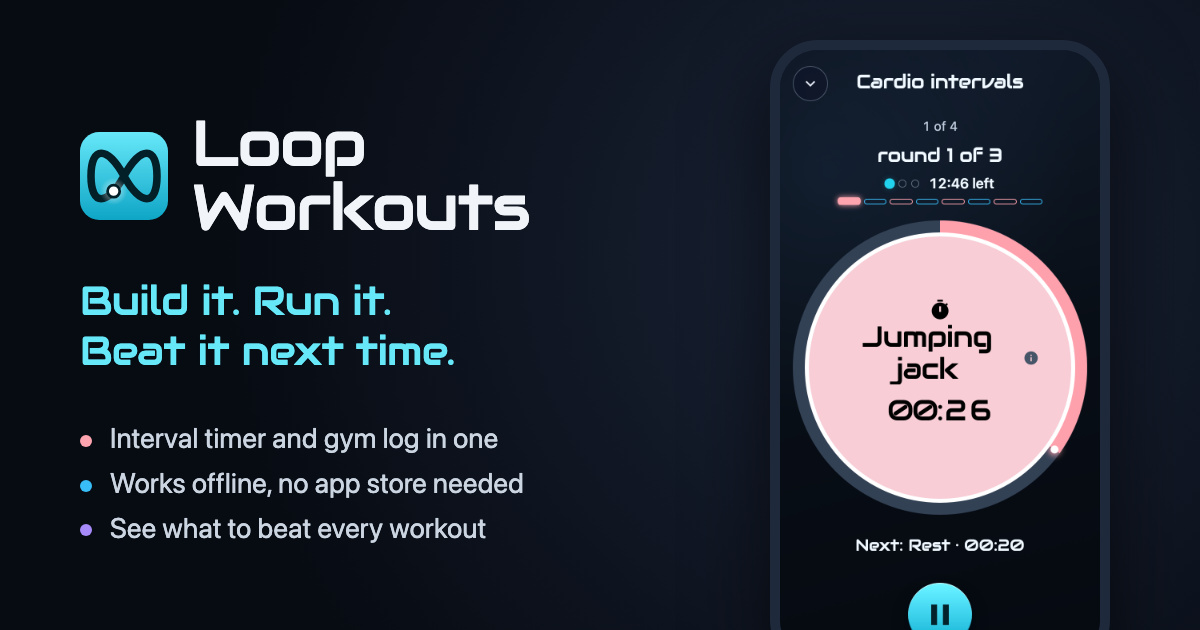
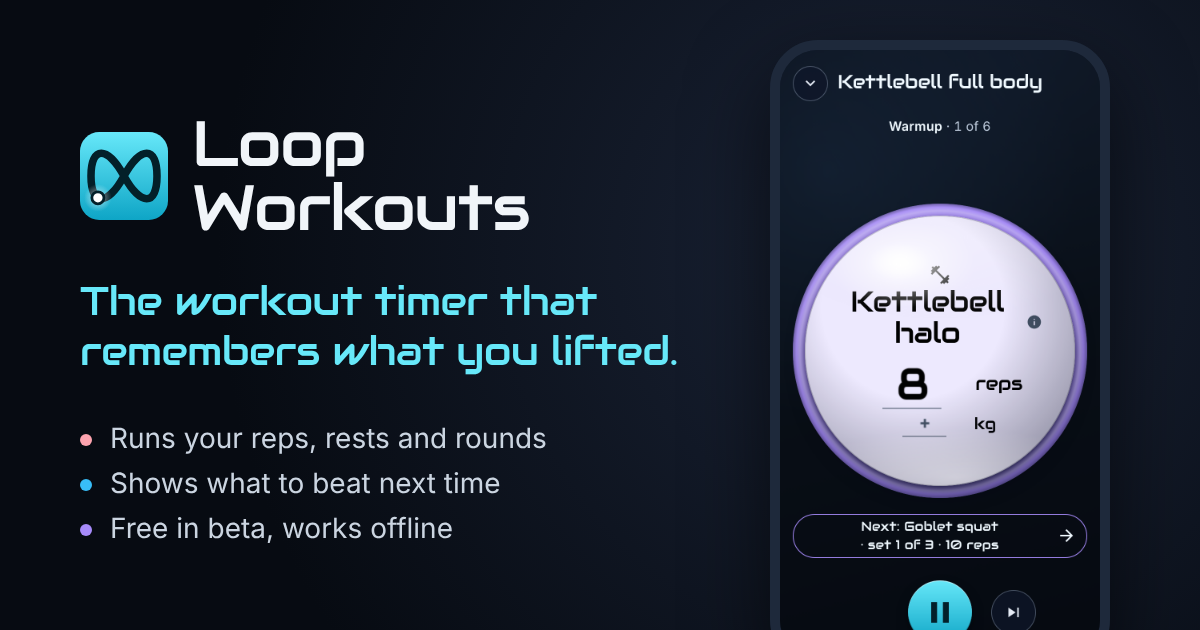
Founding members: first year free, and the app's words for the beta
Anyone who signs in during the free beta becomes a founding member,
with their first year free in the store app. Welcome and the You tab
say so, and the welcome pitch, page description, Open Graph tags,
manifest and share.png now use the new positioning: "the workout timer
that remembers what you lifted". share.png shows Kettlebell full body,
and its script finds the details page's start button by its current
name. The marketing plan, TODO and feature docs follow, with what's
left to decide before charging (when the beta ends, how founding
members claim their year, and the terms of use).

Claude-Session: https://claude.ai/code/session_01E5YpXDFx369SisvGUtWbE6

diff --git a/src/index.html b/src/index.html
@@ -9,23 +9,26 @@
              tools/build-share-image.mjs). The copy's other versions are in docs/marketing.md. -->
         <meta
             name="description"
-            content="A free interval timer and gym log: build a workout, run it with a clear timer and beeps, and see what to beat next time. Works offline, no app store needed."
+            content="A workout timer for kettlebells and circuits that remembers what you lifted: reps, rests and rounds, run for you, and what to beat next time. Free in beta."
         />
         <link rel="canonical" href="https://loopworkouts.com/" />
         <meta property="og:type" content="website" />
         <meta property="og:site_name" content="Loop Workouts" />
         <meta property="og:url" content="https://loopworkouts.com/" />
-        <meta property="og:title" content="Loop Workouts: build it, run it, beat it next time" />
+        <meta
+            property="og:title"
+            content="Loop Workouts: the workout timer that remembers what you lifted"
+        />
         <meta
             property="og:description"
-            content="A free interval timer and gym log in one. Build a workout, run it with a clear timer and beeps, and see what to beat next time."
+            content="Runs your kettlebell or circuit workout, reps and rests included, and shows you what to beat next time. Free in beta, and founding members get their first year free in the app."
         />
         <meta property="og:image" content="https://loopworkouts.com/share.png" />
         <meta property="og:image:width" content="1200" />
         <meta property="og:image:height" content="630" />
         <meta
             property="og:image:alt"
-            content="Loop Workouts on a phone, mid-workout: a ring counting down 26 seconds of jumping jacks"
+            content="Loop Workouts on a phone, mid-workout: a kettlebell halo, 8 reps, waiting for Done"
         />
         <meta name="twitter:card" content="summary_large_image" />
         <!-- The ∞ and its light on the Start button's cyan. Firefox moves the light round the

diff --git a/src/app/welcome/welcome.component.ts b/src/app/welcome/welcome.component.ts
@@ -21,12 +21,12 @@ import { WELCOMED_KEY } from './welcome-first';
                 <app-loop-logo class="welcome__logo" />
                 <h2 class="welcome__title">Welcome to Loop Workouts</h2>
                 <p class="welcome__pitch">
-                    Build your workouts, run them with a timer that counts your sets and rests, and
-                    see how you're getting on.
+                    The workout timer that remembers what you lifted. It runs your whole workout,
+                    reps and rests included, and next time shows you what to beat.
                 </p>
 
                 <app-sign-in
-                    intro="Sign in to keep your workouts and history on every device you use."
+                    intro="Loop Workouts is free while in beta. Sign in now to be a founding member, with your first year free when the app comes to the App Store and Google Play. Your workouts and history are then on every device you use."
                     (signedIn)="goHome('signed-in')"
                 />
 

diff --git a/src/app/account/account.component.html b/src/app/account/account.component.html
@@ -98,7 +98,7 @@
                 }
                 @case ('signed-out') {
                     <app-sign-in
-                        intro="Sign in, and your workouts and history will be the same on every device you sign in on. An account is optional: without one, everything stays on this device."
+                        intro="Sign in, and your workouts and history will be the same on every device you sign in on. Signing in while in beta also makes you a founding member, with your first year free when the app comes to the App Store and Google Play. An account is optional: without one, everything stays on this device."
                         (signedIn)="signedIn()"
                     />
                 }

diff --git a/docs/marketing.md b/docs/marketing.md
@@ -12,6 +12,7 @@ Decided by Dan on 2026-11-09.
 - **The business: a paid app in the App Store and Google Play,** at about £2.99 a month or £24.99 a year. It gets there in two stages:
     1. **A free web beta, now.** Free users while the iPhone app is built, to get feedback, iron out the kinks, and collect testimonials.
     2. **The store launch, paid,** with the beta's testimonials and fixes.
+- **Founding members get their first year free.** Anyone who signs in during the beta becomes a founding member, and gets their first year free in the store app. Signing in is what makes them one: a guest's data stays on their device, so there's no way to know who they are. The welcome screen and the You tab say so, as do the shared link's description and the beta invitation. Supabase's list of accounts, with when each was made, is the record of who's a founding member.
 
 ### Pricing next to the rivals
 
@@ -19,10 +20,11 @@ Decided by Dan on 2026-11-09.
 
 ### To decide before charging
 
-- **What beta users get for helping.** Recommended: they become **founding members**, with something concrete, such as a free first year in the store app or a lower price for good. Say what it is in the beta invitation. "Free while in beta, and you'll get X" is honest, and it explains why it's free.
 - **Whether the web version stays free.** If the store app is paid and the web app isn't, most people will use the web app. The options are to make the web app paid too, give it a free tier with limits, or close it once the store apps are out.
 - **A free tier or a trial in the store.** A trial is simpler. A free tier (say, the timer without the memory) brings more people in, but it gives away what makes the app worth having.
-- **The terms of use.** They say the app is free, so they'll need to change before charging, along with the privacy notice if payments bring in a new provider.
+- **When the beta ends,** so founding members know the cut-off. Until it's set, say "during the beta".
+- **How a founding member claims their year** in the store app, by signing in with the same account. Apple and Google each have ways to give a year free (offer codes, or a promotional offer for existing accounts), and Apple's rules on unlocking paid features for accounts made outside the store need checking first.
+- **The terms of use.** They say the app is free, so they'll need to change before charging, along with the privacy notice if payments bring in a new provider. They should also state the founding members' offer, as it's a promise.
 
 ## The free beta
 
@@ -42,7 +44,7 @@ Home kettlebell and circuit trainers, in this order:
 
 ### Telling beta users
 
-Say plainly that it's a beta, that it's free for now, that a paid store app is coming, and what they'll get for helping. Ask for feedback at the moments it's freshest: after their first workout and after their first week.
+Say plainly that it's a beta, that it's free for now, that a paid store app is coming, and that signing in during the beta makes them a founding member, with their first year free in the app. Ask for feedback at the moments it's freshest: after their first workout and after their first week.
 
 ### Collecting testimonials
 
@@ -91,6 +93,7 @@ The marketing skills (`/draft-content`, `/brand-review`, `/email-sequence`, `/ca
 Check a claim here before using it anywhere new.
 
 - **Free, for now:** the terms of use say so. Don't promise it'll always be free: a paid store app is planned. "Free while in beta" is safe.
+- **Founding members get their first year free** in the store app: anyone who signs in during the beta. Don't promise a cut-off date, a price or a launch date until they're set.
 - **Runs the whole workout:** timed steps, rep steps that wait for you to tap Done, rests, sets, supersets, rounds or "until I stop", and a time limit for as many rounds as possible, with your score at the end.
 - **Remembers and suggests:** every set is logged; a rep step shows what you did last time; the summary celebrates personal bests and suggests what to step up next time (more weight, or another rep); each exercise has a chart and its bests; and it suggests a next workout for the muscles you've worked least.
 - **For kettlebells:** 21 built-in exercises use a kettlebell, and there are 3 ready-made kettlebell workouts (full body, a swing ladder and an AMRAP) and a 3-day kettlebell plan.
@@ -104,17 +107,17 @@ Check a claim here before using it anywhere new.
 
 ## Taglines
 
-- **The workout timer that remembers what you lifted.** (Recommended: it says "timer" first, and the memory is the reason to choose it.)
-- **Build it. Run it. Beat it next time.** (In use now in `share.png` and `og:title`. It still fits, as a second line.)
+- **The workout timer that remembers what you lifted.** (In use: Welcome, `share.png`, `og:title` and the manifest. It says "timer" first, and the memory is the reason to choose it.)
+- **Build it. Run it. Beat it next time.** (The old one. It still fits, as a second line.)
 - Your workout, on a loop.
 
 ## Short versions
 
-These are drafts for the new positioning. The app's own copy (`src/index.html`, `manifest.webmanifest`, `share.png`) still uses the old "interval timer and gym log" words until it's updated.
+The first two are in the app's own copy: `src/index.html` and `manifest.webmanifest`.
 
 **Search results and shared links** (about 155 characters):
 
-> A workout timer for kettlebells and circuits that remembers what you lifted. Reps, rests and rounds, run for you, and what to beat next time. Free in beta.
+> A workout timer for kettlebells and circuits that remembers what you lifted: reps, rests and rounds, run for you, and what to beat next time. Free in beta.
 
 **One line** (80 characters at most):
 
@@ -146,7 +149,7 @@ For a landing page, and later a store listing (drop "in the browser" and "beta" 
 >
 > **Built for everyone.** Works fully by keyboard and screen reader, respects reduced motion, and has light and dark themes.
 >
-> Free while in beta. Open loopworkouts.com and press start.
+> Free while in beta, and founding members get their first year free in the app. Open loopworkouts.com and press start.
 
 ## Posts
 
@@ -154,7 +157,7 @@ For a landing page, and later a store listing (drop "in the browser" and "beta" 
 
 > **I built a workout timer for kettlebell circuits that remembers what you lifted. Looking for beta testers.**
 >
-> Every timer I tried was pure countdowns, useless for "15 swings, 8 presses each side, rest 60s", and I kept forgetting which bell I'd used last week. So I made one that does both: timed steps, rep steps that wait for you to tap Done, and a log that shows what you did last time and suggests when to go up a bell. There are 21 kettlebell exercises with 3D demos, a swing ladder, an AMRAP and a 3-day plan built in. It runs in the browser and works offline: loopworkouts.com. It's free while in beta, as I'm building the iPhone app. I'd love to know what's missing for how you train.
+> Every timer I tried was pure countdowns, useless for "15 swings, 8 presses each side, rest 60s", and I kept forgetting which bell I'd used last week. So I made one that does both: timed steps, rep steps that wait for you to tap Done, and a log that shows what you did last time and suggests when to go up a bell. There are 21 kettlebell exercises with 3D demos, a swing ladder, an AMRAP and a 3-day plan built in. It runs in the browser and works offline: loopworkouts.com. It's free while in beta, as I'm building the iPhone app, and anyone who signs in now gets their first year free in it too. I'd love to know what's missing for how you train.
 
 Change the middle for each community: no equipment and the ready-made bodyweight workouts for r/bodyweightfitness, and home circuits and the weekly plan for r/homegym.
 
@@ -164,7 +167,7 @@ Change the middle for each community: no equipment and the ready-made bodyweight
 
 ## Pictures and video
 
-- **Shared links:** `public/share.png`, made by `tools/build-share-image.mjs` (see Web, shared links in [home and navigation](features/home-and-navigation.md)). Update it with the new tagline.
+- **Shared links:** `public/share.png`, made by `tools/build-share-image.mjs` (see Web, shared links in [home and navigation](features/home-and-navigation.md)): the new tagline beside Kettlebell full body running.
 - **Short videos** (Reels, TikTok, Shorts), 15 seconds with no voiceover needed: a kettlebell workout running (the ring filling, Done on a set of swings), "last time" on a step and the personal best at the end, and a 3D demo turning round.
 - **The store listing** will need screenshots and a preview video. Plan them from the same shots.
 
@@ -172,12 +175,12 @@ Change the middle for each community: no equipment and the ready-made bodyweight
 
 In order. Each step's to-do is in TODO.md under Launch.
 
-1. **Shared links show a picture and a description.** Done; the words change with step 4.
+1. **Shared links show a picture and a description.** Done.
 2. **Know whether it's working:** Vercel Web Analytics (tag links with `?ref=`), Speed Insights, and an email link under You → About. Done.
 3. **Clear the iPhone checks and the legal review.** The iPhone checks are done (2026-11-08); the legal review is left.
-4. **Ready the beta:** decide what founding members get, then update the app's own words (`index.html`, the manifest, `share.png`, Welcome) for the new positioning and say "beta" in it.
+4. **Ready the beta:** the app's own words (`index.html`, the manifest, `share.png`, Welcome and the You tab) say what it is now, that it's a beta, and that founding members get their first year free. Done (2026-11-09).
 5. **Soft launch:** friends and the gym. Watch a few people use it without helping.
 6. **Communities,** with the beta invitation above, and short videos along the way.
 7. **Collect testimonials** from the people who keep coming back.
-8. **The store apps, paid:** the iPhone app with the Apple Developer account ($99 a year), which also unlocks Sign in with Apple, and Google Play. First change the terms of use, and decide on the web version, the trial and the founding members' offer.
+8. **The store apps, paid:** the iPhone app with the Apple Developer account ($99 a year), which also unlocks Sign in with Apple, and Google Play. First change the terms of use, and decide on the web version, the trial, when the beta ends, and how founding members claim their year.
 9. **Branch out** to gym-goers and HIIT once there's a decent user base. Show HN or Product Hunt fit around here.

diff --git a/docs/features/home-and-navigation.md b/docs/features/home-and-navigation.md
@@ -17,7 +17,7 @@
 
 - **The welcome screen** (NAV-3, `/welcome`) opens instead of Home on a device new to the app: not signed in, not welcomed yet, and with no workouts or history. That's a first visit, and the first open after signing out, deleting the account or Clear this device, which all empty the device. A device already in use as a guest when it came in (on 2026-10-30) has workouts or history, so goes straight Home, and counts as welcomed from then on.
 
-    - Top to bottom: the ∞ logo, "Welcome to Loop Workouts", "Build your workouts, run them with a timer that counts your sets and rests, and see how you're getting on.", then signing in as on the You tab (Continue with Google, "or", the email link and its code; see [backup-and-sync](backup-and-sync.md)), introduced by "Sign in to keep your workouts and history on every device you use.", then, set apart, **Continue as guest**, described by "Everything stays on this device. You can sign in any time from the You tab."
+    - Top to bottom: the ∞ logo, "Welcome to Loop Workouts", "The workout timer that remembers what you lifted. It runs your whole workout, reps and rests included, and next time shows you what to beat.", then signing in as on the You tab (Continue with Google, "or", the email link and its code; see [backup-and-sync](backup-and-sync.md)), introduced by "Loop Workouts is free while in beta. Sign in now to be a founding member, with your first year free when the app comes to the App Store and Google Play. Your workouts and history are then on every device you use." (see [marketing](../marketing.md) for the founding members' offer), then, set apart, **Continue as guest**, described by "Everything stays on this device. You can sign in any time from the You tab."
     - **Continue as guest** goes to Today, and the device isn't asked again (`welcomed` in localStorage; see [data](data.md)). Signing in with the code goes to Today too; Google and email links come back by way of the You tab, which goes on to Today once signed in.
     - There's no tab bar on it, as there isn't on the workout, so it's one choice. Linking straight to another page (e.g. an exercise) opens that page; the welcome screen waits for Today.
 
@@ -159,7 +159,7 @@ Since 2026-11-06, from an interview with Dan.
 - **Web:** `TabBarComponent` (`src/app/nav/tab-bar/`, tabs in `tabs.ts`), the ‹ back link at the top of a page that slides in over another in `BackLinkComponent` (`src/app/nav/back-link/`), new pages opening at their top in `openNewPagesAtTop` (`src/app/nav/open-at-top.ts`), `RunBarComponent` (`src/app/nav/run-bar/`, which also handles its swipe to end, as the workout cards on Workouts handle theirs to delete), the header and its back link in `NavComponent` (`src/app/nav/`), and the logo in `LoopLogoComponent` (`src/app/shared/components/loop-logo/`). The welcome screen is `WelcomeComponent` (`src/app/welcome/`), opened by Today's `welcomeFirst` guard (`welcome-first.ts`), which then opens the setup, `SetupComponent` (`src/app/welcome/setup/`), with the sign-in shared with the You tab, `SignInComponent` (`src/app/account/sign-in/`). Today is `HomeComponent` (`src/app/home/`), showing `GetStartedComponent` (`src/app/home/get-started/`, its plan picked by `firstPlan()` in `src/app/models/built-in-plans.ts`, shown by `PlanCardComponent`) with no workouts, or `WeekStripComponent` (`src/app/home/week-strip/`), `DueTodayComponent` (`src/app/home/due-today/`) and `SuggestedWorkoutComponent` (`src/app/history/suggested-workout/`), shared with the workout summary; `/home` waits for the history to load, as `/history` does. The tabs' names, icons and the pages each holds are `TABS` in `tabs.ts`; the pages kept their addresses (`/home`, `/library`, `/history`, `/account`) when the tabs were renamed, as sign-in links come back to `/account` and Supabase only sends them to addresses it's been told. Routes in `src/app/app.routes.ts`. Moving off the old address is `AddressMove` (`src/app/nav/moved-banner/`), started in `main.ts`, with its card, `MovedBannerComponent`, at the top of `<main>`. A page whose code fails to load (renamed by a later deploy; Vercel answers for the old name with index.html) is loaded afresh by `reloadOnStaleCode` (`src/app/nav/stale-code.ts`), the router's navigation error handler in `main.ts`. How much of the page the bars cover is `--bars-height`, worked out in `styles.scss` with `:has()` from which bars are showing; pages use it to leave room. `viewport-fit=cover` in `index.html` makes `env(safe-area-inset-*)` work, for the gap above an iPhone's home bar. The Undo bar is `UndoBarComponent` (`src/app/nav/undo-bar/`), showing the offer that pages make through `UndoService` (`src/app/shared/undo/`). The morph is `WorkoutMorph` (`src/app/nav/workout-morph.ts`): the bar and ⌄ start a view transition around their own navigation (the router makes none, so other pages change at once), and `src/styles/_workout-morph.scss` pairs the bar with the workout page by view-transition-name, only while it runs. Help is `HelpComponent` (`src/app/help/`), its questions and answers `HELP_SECTIONS` in `help-topics.ts` (with `searchTopics()`), checked by `help-topics.spec.ts` (unique ids, short answers, links only to real pages); the ? links are `HelpLinkComponent` (`src/app/shared/components/help-link/`), drawn as an inline SVG so no word joins the text beside it.
 - **Web, added to the Home Screen:** `manifest.webmanifest` makes it open on its own, without the browser's bars (`display: standalone`). `<meta name="theme-color">` is the page colour (`--page-bg`) of the theme in use: index.html sets it before the app loads, then `ThemeService` keeps it in step, so the browser's bars, and an installed app's, match the page.
 - **Web, the icon:** the favicon is the ∞ and its light on the Start button's cyan: `public/favicon.svg` (the light moves round the loop in Firefox; other browsers show it still), `favicon.ico` for browsers without SVG icons, `apple-touch-icon.png` for an iPhone's home screen, and `icon-192.png` and `icon-512.png` for `manifest.webmanifest`, all drawn by `tools/build-favicon.mjs`. An iPhone app would use the same artwork, square, as its app icon.
-- **Web, shared links:** `public/robots.txt` lets search engines in everywhere (without it, the app's page came back in its place, which they read as a broken file). `index.html` has a description for search results, and Open Graph and Twitter card tags, so a link to loopworkouts.com shows a title, a line and a picture when shared. The picture is `public/share.png` (1200 × 630): the name and tagline beside a phone mid-workout, made by `tools/build-share-image.mjs` from a running `ng serve --port 4300`. Make it again when the workout screen's look changes. The words, and their longer versions for listings and posts, are in [marketing](../marketing.md).
+- **Web, shared links:** `public/robots.txt` lets search engines in everywhere (without it, the app's page came back in its place, which they read as a broken file). `index.html` has a description for search results, and Open Graph and Twitter card tags, so a link to loopworkouts.com shows a title, a line and a picture when shared. The picture is `public/share.png` (1200 × 630): the name and tagline beside a phone at the start of Kettlebell full body, made by `tools/build-share-image.mjs` from a running `ng serve --port 4300`. Make it again when the workout screen's look changes. The words, and their longer versions for listings and posts, are in [marketing](../marketing.md).
 - **Web, the tour:** `TourService` (`src/app/tour/tour.service.ts`) holds whether it's offered (`tour` in localStorage) and which tour and stop is showing, and `TOURS` (`tour-stops.ts`) each tour's stops, and where focus goes when it ends: the app's here, and Create's (BLD-17, in [build-a-workout](build-a-workout.md)). Each stop is a page (or none, to stay on the page it's on), the parts it may light up (by `data-tour` attributes on them, the first found winning), and their words. The overlay, `TourComponent` (`src/app/tour/`), loads only once a tour starts (`@defer` in `app.component.html`); it opens each page with the router, waits for the part to show and scrolls it into view (adding room under `main` while it's on, if the page is too short to bring the part above the card), then lights it and its tab (`data-tour-tab` in the tab bar, or `data-tour-tabs` for the whole bar): a ring round each, and a dimmed SVG over the screen with a hole for each (a mask, its rects moving by CSS `x`, `y`, `width` and `height`). Today's offer is `TourOfferComponent` (`src/app/home/tour-offer/`). Progress's examples are `sampleHistory()` (`src/app/tour/sample-history.ts`), shown through `ShownHistory` (`src/app/history/shown-history.ts`), what Progress's parts read the history from: Progress provides one that swaps in the examples while `TourService.sampleHistory` is on and the history is empty; everywhere else it's the history itself.
 - **iOS:** the tour would be the same stops, each switching the `TabView`'s selection, with a `.popoverTip` from TipKit or an overlay with a cut-out at the part's frame (via `anchorPreference`); post `UIAccessibility.post(notification: .screenChanged, argument:)` at each stop so VoiceOver reads it.
 - **iOS:** a `TabView` with the same five tabs. The workout in progress is a bar above the tabs (`tabViewBottomAccessory`, as Music's mini player), opening the workout full screen with a zoom transition from the bar (`.navigationTransition(.zoom(sourceID:in:))`), and a leading `.swipeActions` (or a drag gesture, if the accessory doesn't take swipe actions) to end it; and a **Live Activity** on the lock screen and Dynamic Island, which also serves ALM-2 and CTL-1.

diff --git a/TODO.md b/TODO.md
@@ -9,9 +9,9 @@ Open work, highest priority first. Tick items off (or delete them) as they're do
 Promoting the app: a free web beta for home kettlebell and circuit trainers now, for feedback and testimonials, then a paid app in the stores (about £2.99 a month or £24.99 a year). The strategy, the words to use, what's true to say and the plan are in [docs/marketing.md](docs/marketing.md). Shared links already show a description and `public/share.png`.
 
 - [ ] **Finish the legal review first** (the Privacy notice and Terms of use, in Known issues), so new users' first visit goes well. Dan read both on 2026-11-08, and the gaps UK GDPR asks about were filled the same day (who's responsible, why data is used, health details, who else handles it and where, how long it's kept, age, rights and the ICO, and the governing law). Left, for Dan: register with the ICO and pay its data protection fee; check there's a data processing agreement with Supabase (Vercel's and Resend's are part of their terms), and how long its backups keep a deleted account; and decide whether a solicitor should look over both. The iPhone checks are done: Dan went through the app on an iPhone on 2026-11-08 (the 3D demo in its worker, running smoothly, stopping when paused or scrolled away and turning without swiping the page back, the setup's buttons with the keyboard up, the Content-Security-Policy with both sign-ins, a tap and a swipe mid-slide, the summary's drag, the 3D bubble, and Enter in a step's name box, which settles the step's kind before the workout starts, as in Chrome; and leaving Create, which is as quick as leaving a workout's Details on the live site, so its slowness was the dev server's), and `push_records()` is done, as `supabase/schema.sql` was run on 2026-11-06 (and again on 2026-11-08, for the consent tick).
-- [ ] **Ready the beta:** decide what founding members (beta users) get for helping, then update the app's own words for the new positioning ("the workout timer that remembers what you lifted") and say it's a beta: `index.html`'s description and Open Graph tags, `manifest.webmanifest`, `share.png` and Welcome. Drafts are in docs/marketing.md.
+- [x] **Ready the beta** (2026-11-09): founding members, anyone who signs in during the beta, get their first year free in the store app. The app's own words say what it is now ("the workout timer that remembers what you lifted"), that it's a beta, and the founding members' offer: `index.html`'s description and Open Graph tags, `manifest.webmanifest`, `share.png` (now Kettlebell full body running), Welcome and the You tab's Sync section.
 - [ ] **Soft launch, then communities,** with the beta invitation in docs/marketing.md, and short screen-recorded videos for Reels, TikTok and Shorts along the way. Collect testimonials, with permission, from the people who keep coming back (aim for 10 before the store launch).
-- [ ] **The store apps, paid:** the iPhone app with the Apple Developer account (which Sign in with Apple needs too), and Google Play. Before charging: change the terms of use (they say it's free), and decide whether the web version stays free, and on a trial or free tier (see To decide before charging in docs/marketing.md).
+- [ ] **The store apps, paid:** the iPhone app with the Apple Developer account (which Sign in with Apple needs too), and Google Play. Before charging: change the terms of use (they say it's free), state the founding members' offer in them, and decide whether the web version stays free, on a trial or free tier, when the beta ends, and how founding members claim their year (see To decide before charging in docs/marketing.md).
 
 ### Speed (Lighthouse, 2026-11-07)
 

diff --git a/docs/features/backup-and-sync.md b/docs/features/backup-and-sync.md
@@ -80,7 +80,7 @@ Export and import (SYN-1, SYN-2) are built, with a prompt for having an AI turn 
 Signing in makes the account, if it's new, and starts sync (below).
 
 - The same sign-in is on the **welcome screen** a device new to the app opens on (NAV-3, see [home-and-navigation](home-and-navigation.md)), with **Continue as guest** under it.
-- **Signed out**, the You tab's Sync section says "Sign in, and your workouts and history will be the same on every device you sign in on. An account is optional: without one, everything stays on this device.", then **Continue with Google** (and **Continue with Apple** once it's set up; SYN-7, below), "or", and an **Email** field and **Email me a sign-in link**.
+- **Signed out**, the You tab's Sync section says "Sign in, and your workouts and history will be the same on every device you sign in on. Signing in while in beta also makes you a founding member, with your first year free when the app comes to the App Store and Google Play. An account is optional: without one, everything stays on this device.", then **Continue with Google** (and **Continue with Apple** once it's set up; SYN-7, below), "or", and an **Email** field and **Email me a sign-in link**.
 - **Consent to keeping notes** (SYN-10): notes are free text, so they may mention health, which UK GDPR counts as special category data, needing explicit consent to keep. Above the ways of signing in is a tick box, unticked: "I agree that notes I write, which may mention my health, are kept with my account." Its whole line is its label, at least 44px tall.
     - Pressing **Continue with Google** (or Apple) or **Email me a sign-in link** without it ticked does nothing but say "Tick the box to agree before signing in." under it, with focus on the box. Errors only show once you've tried, and go once it's ticked.
     - Ticked, the consent is kept on the device (`health-consent` in localStorage, holding the privacy notice's date) until it's signed in, as Google and email links leave the page, and then saved with the account (`give_health_consent()`), dated by the server's clock with the notice's date. Every sign-in through the form saves it again, under the latest notice. If it can't be saved (offline, say), it's kept to save at the next sign-in.
